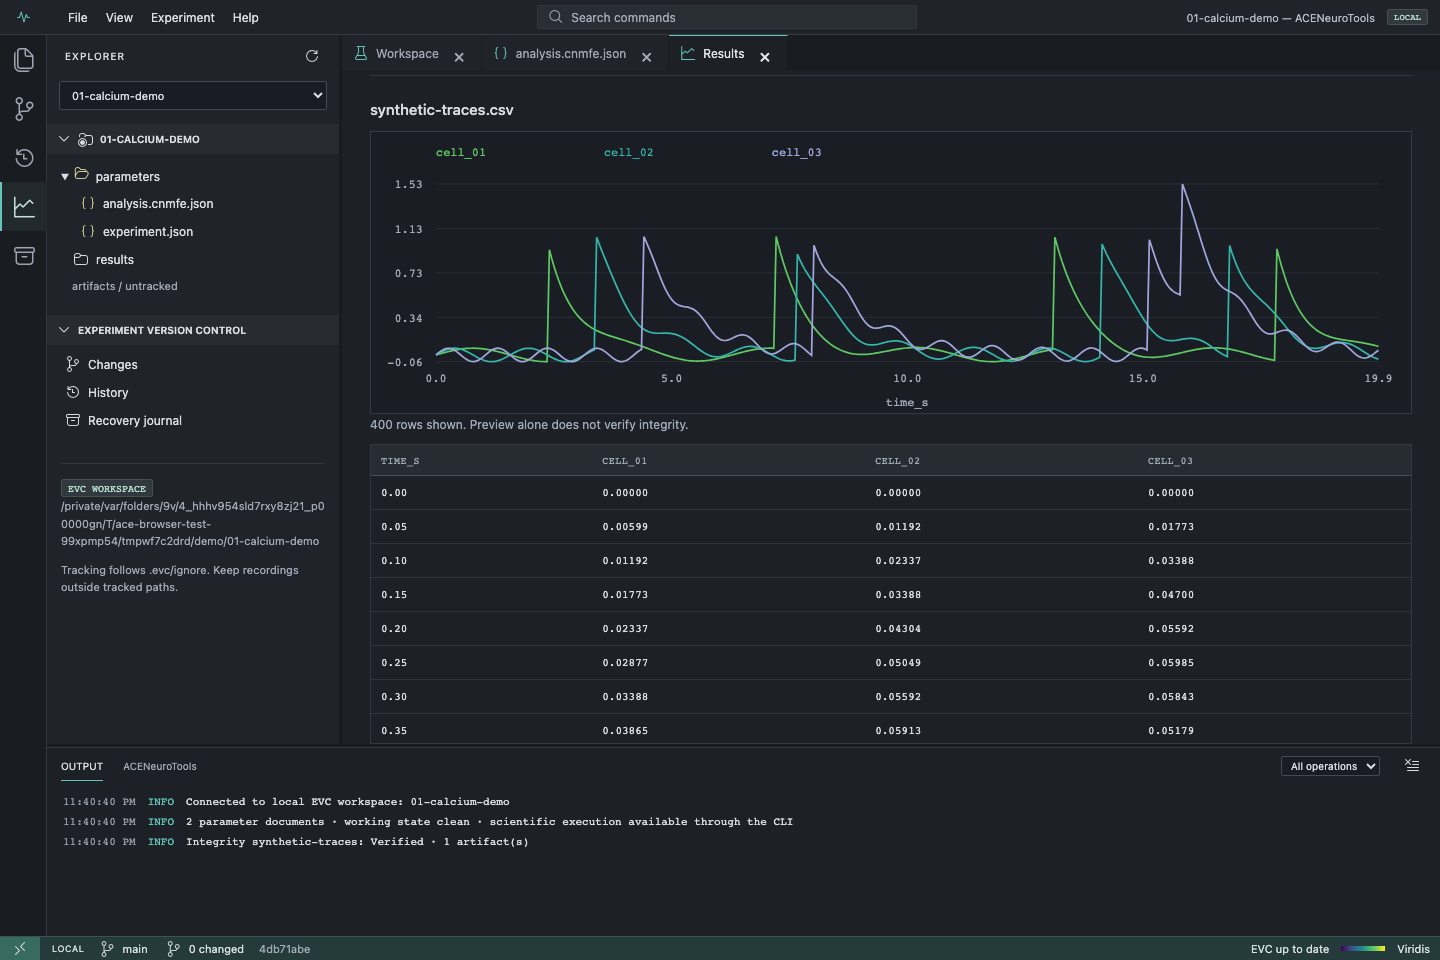
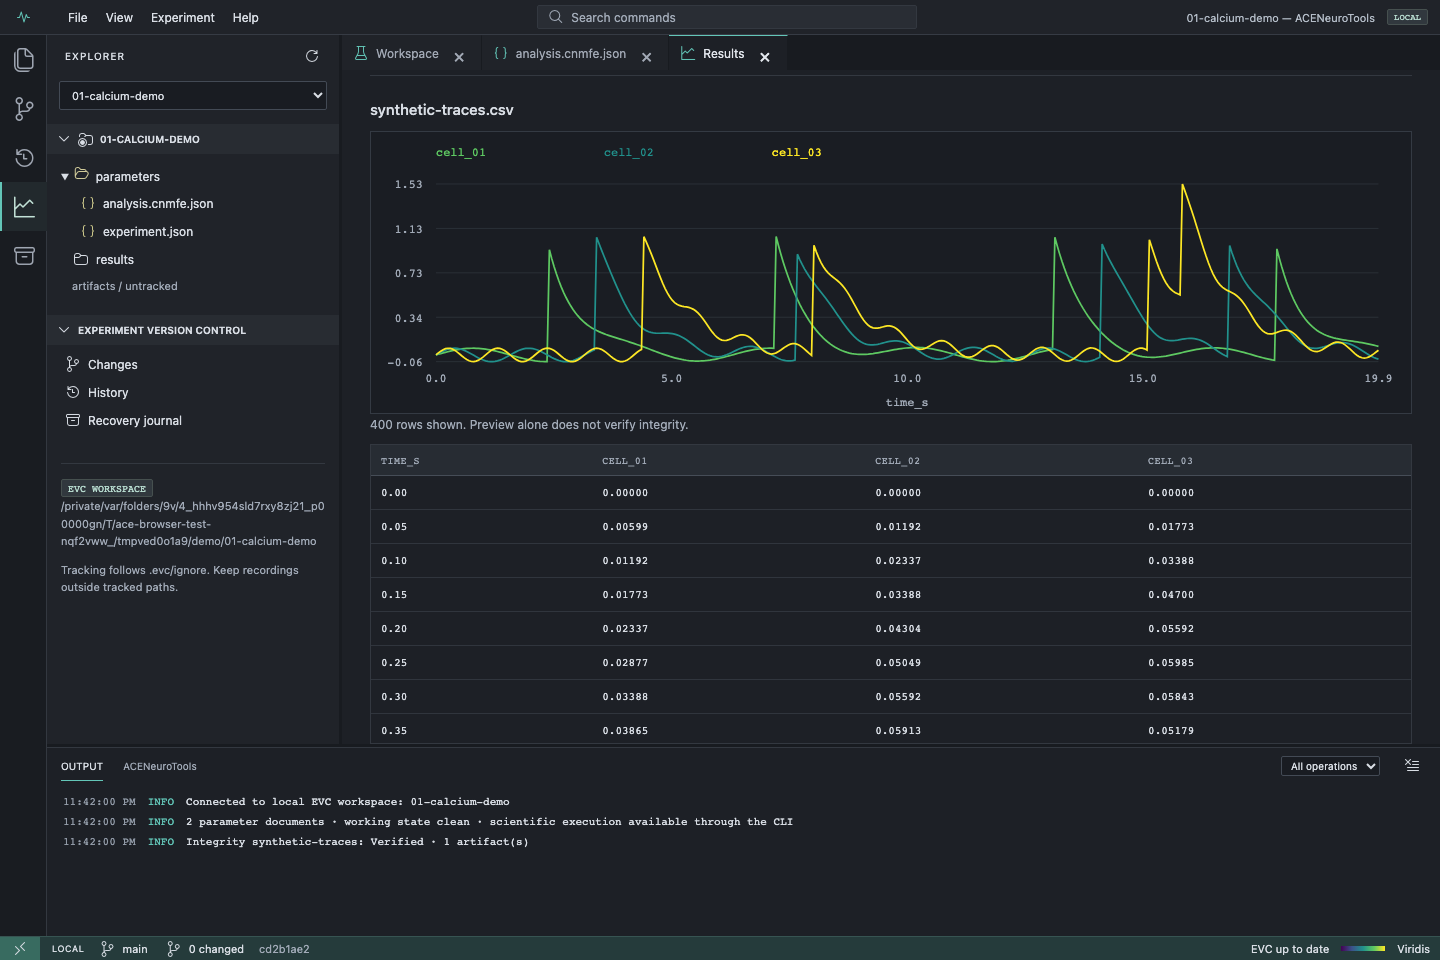
style: use canonical viridis samples for scientific trace previews

diff --git a/gui/src/plot.ts b/gui/src/plot.ts
@@ -1,5 +1,5 @@
 const NS = 'http://www.w3.org/2000/svg';
-const COLORS = ['#5ec962', '#35b5ac', '#a1a6dc', '#fde725', '#678fcc'];
+const COLORS = ['#5ec962', '#21918c', '#fde725', '#35b779', '#3b528b'];
 export function tracePlot(columns: string[], rows: number[][]): SVGSVGElement {
   const svg = document.createElementNS(NS, 'svg'); svg.setAttribute('viewBox', '0 0 960 260');
   svg.setAttribute('role', 'img'); svg.setAttribute('aria-label', `Artifact preview: ${columns.slice(1).join(', ')} against ${columns[0]}`);
